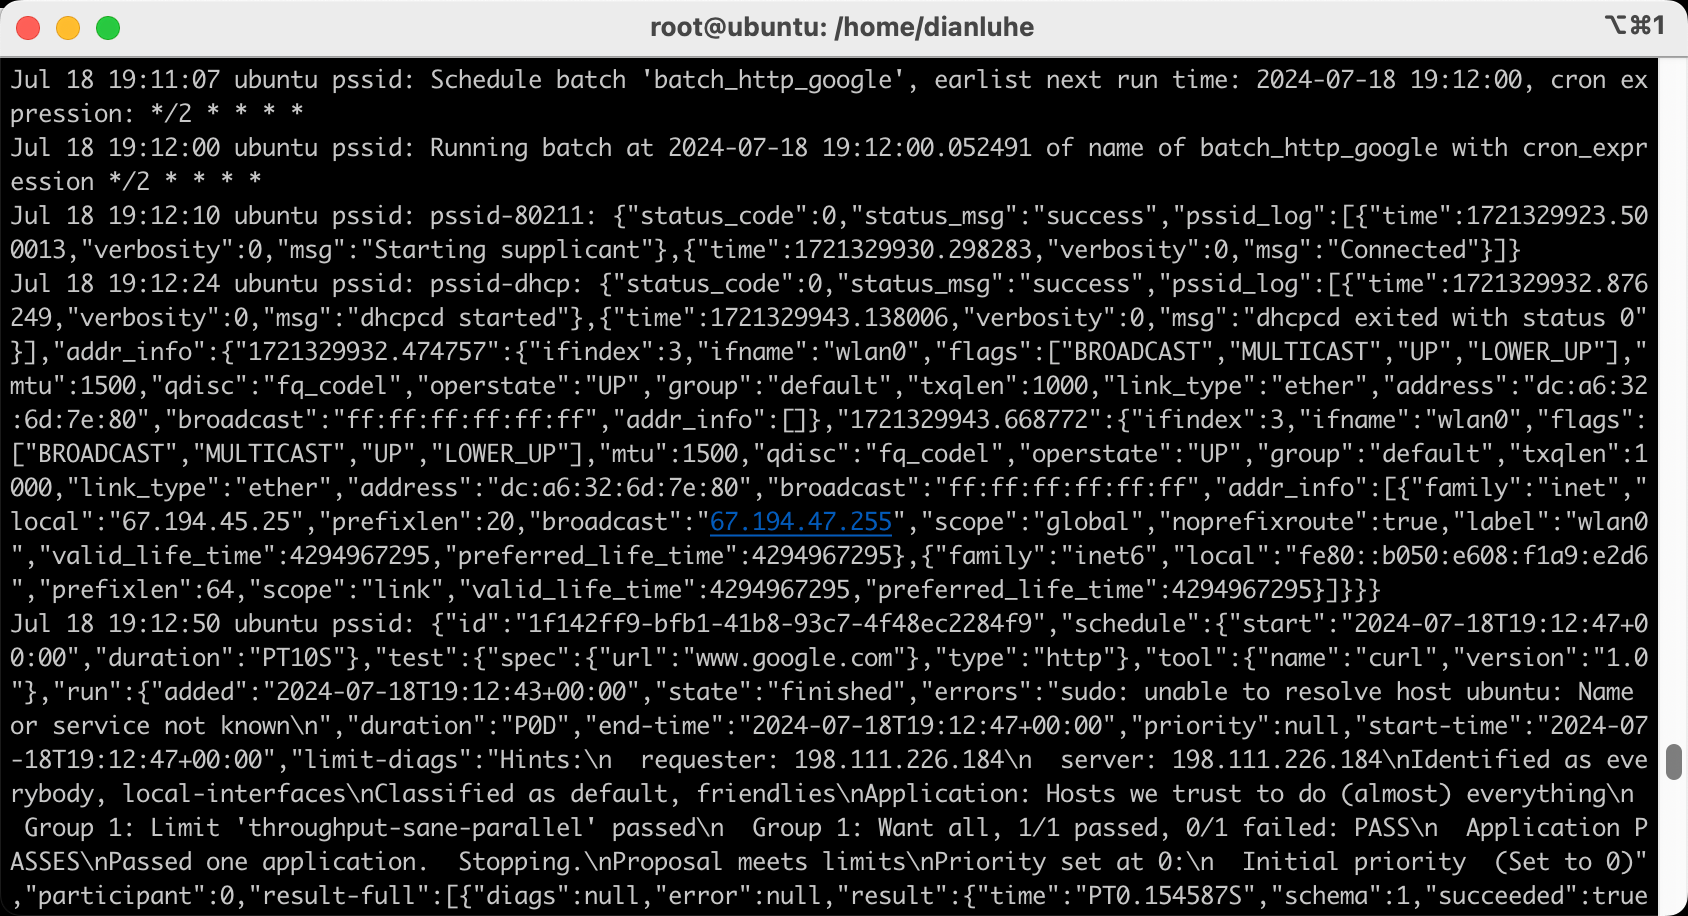
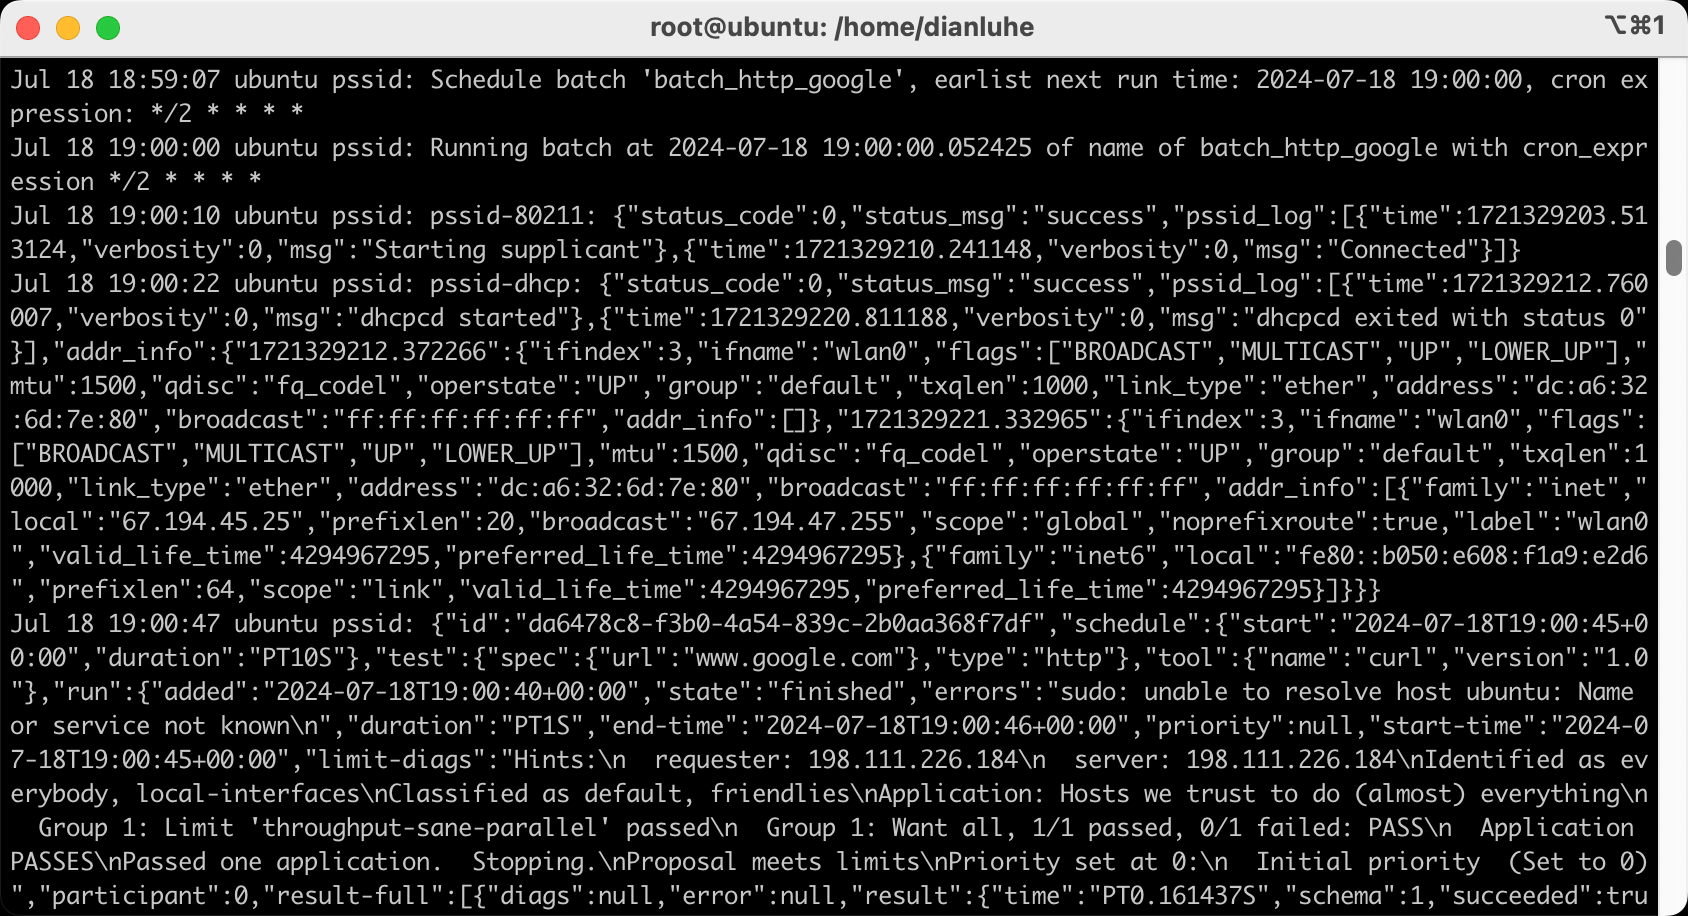
Fix: pssid-log sceen not shown

diff --git a/README.md b/README.md
@@ -169,4 +169,4 @@ systemctl enable pssid-daemon.service
 # Screenshots
 ![alt text](/example/pssid-daemon.png)
 
-![alt text](pssid-log.png)
+![alt text](/example/pssid-log.png)
